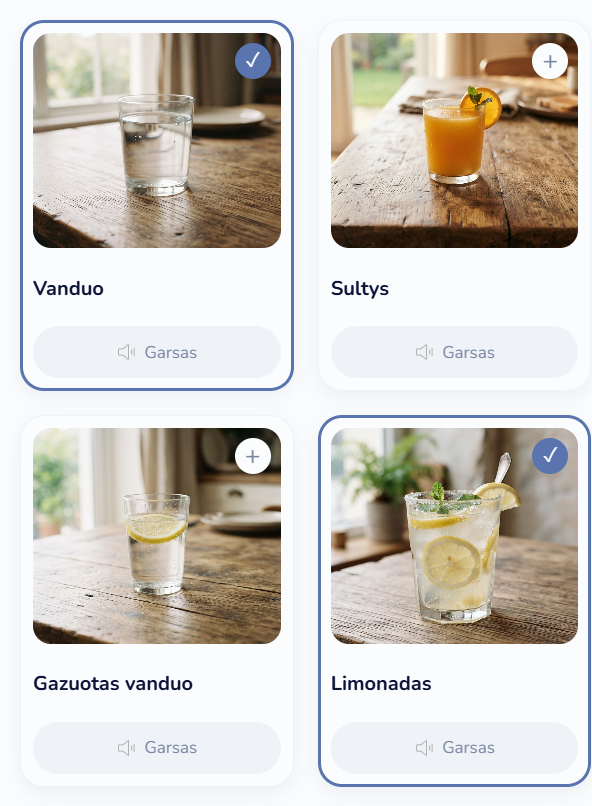
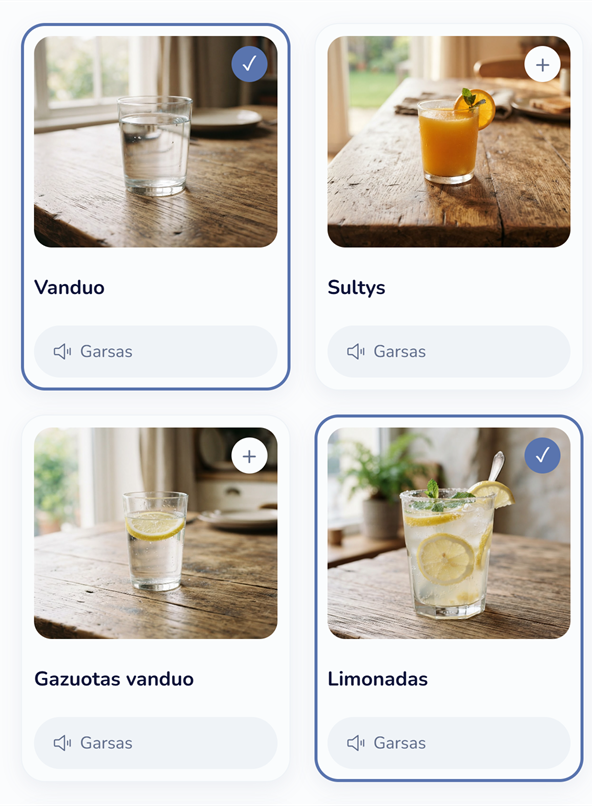
Update card visuals on the Voicer page

diff --git a/service-worker.js b/service-worker.js
@@ -1,4 +1,4 @@
-const CACHE_NAME = "voicer-pwa-v495";
+const CACHE_NAME = "voicer-pwa-v496";
 const APP_SHELL = [
 	"./",
 	"./index.html",
